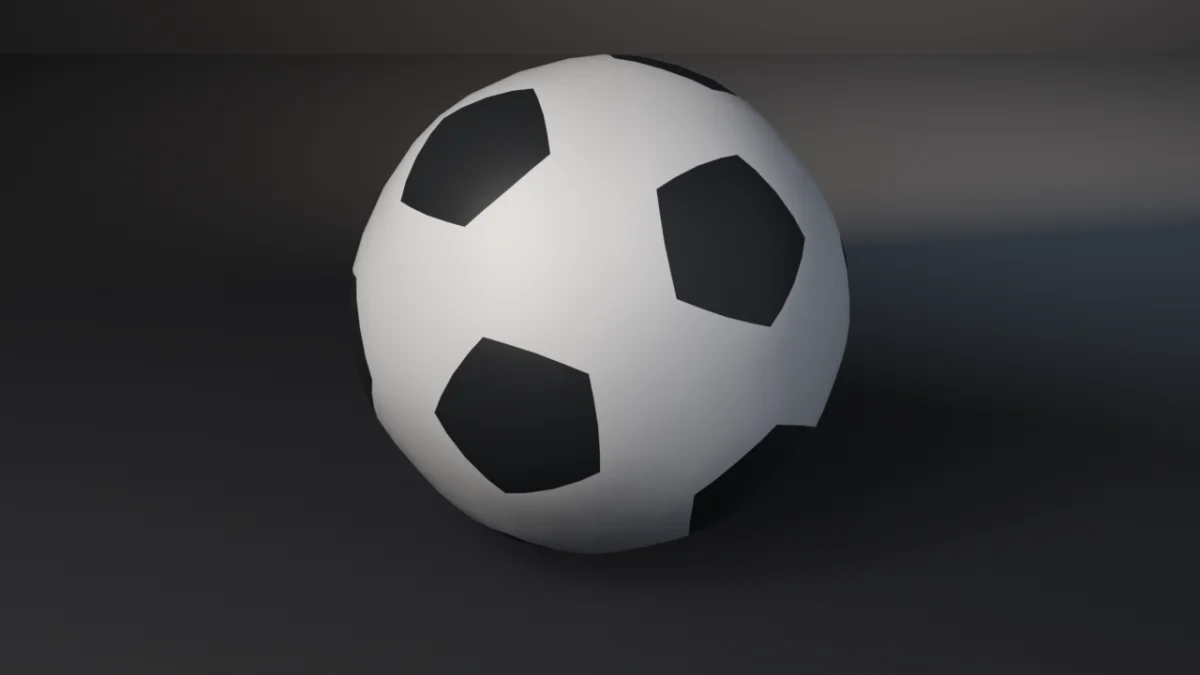
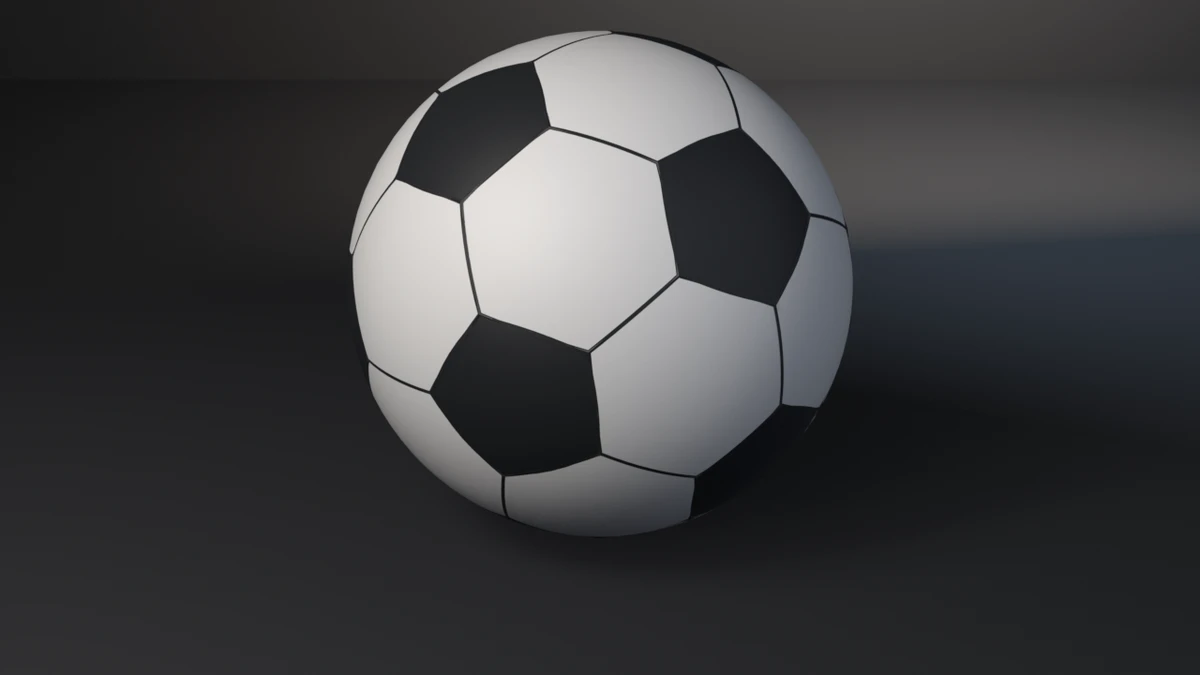
fix(examples): show every soccer-ball panel and gate its framing
Render path only. The white hexagons merged into one shell and the ball
read lumpy; a render-only seam overlay and a Cast modifier fix both. The
render path now calls check_framing, remapped to exit 14 because 10 is
the centroid check. Contract, assertions and exit codes 0-13 unchanged.

diff --git a/docs/gallery/soccer-ball-goldberg/index.html b/docs/gallery/soccer-ball-goldberg/index.html
@@ -16,13 +16,13 @@
   <meta property="og:image" content="https://tmhsdigital.github.io/Blender-Developer-Tools/gallery/assets/soccer-ball-goldberg-hero.webp" />
   <meta property="og:image:width" content="1280" />
   <meta property="og:image:height" content="720" />
-  <meta property="og:image:alt" content="A white soccer ball with black pentagon panels, built as a smoothed Goldberg polyhedron." />
+  <meta property="og:image:alt" content="A round white soccer ball with black pentagon panels and dark stitched seams outlining every white hexagon, built as a smoothed Goldberg polyhedron." />
   <meta property="og:site_name" content="Blender Developer Tools" />
   <meta name="twitter:card" content="summary_large_image" />
   <meta name="twitter:title" content="soccer-ball-goldberg — Examples — Blender Developer Tools" />
   <meta name="twitter:description" content="A soccer ball as a Goldberg polyhedron: a bmesh icosphere truncated at 1/3 per edge, faces ordered by link-topology walks, panels bound by face vertex count." />
   <meta name="twitter:image" content="https://tmhsdigital.github.io/Blender-Developer-Tools/gallery/assets/soccer-ball-goldberg-hero.webp" />
-  <meta name="twitter:image:alt" content="A white soccer ball with black pentagon panels, built as a smoothed Goldberg polyhedron." />
+  <meta name="twitter:image:alt" content="A round white soccer ball with black pentagon panels and dark stitched seams outlining every white hexagon, built as a smoothed Goldberg polyhedron." />
   <style>
     /* fonts are deployed by the landing build (docs/fonts/) */
     @font-face { font-family: 'Barlow Condensed'; font-weight: 600; font-display: swap;
@@ -268,8 +268,8 @@
     <p>A soccer ball as a Goldberg polyhedron: a bmesh icosphere truncated at 1/3 per edge, faces ordered by link-topology walks, panels bound by face vertex count.</p>
   </header>
   <main id="main">
-    <button class="detail-hero" id="heroZoom" type="button" aria-label="View full size: A white soccer ball with black pentagon panels, built as a smoothed Goldberg polyhedron.">
-      <img src="../assets/soccer-ball-goldberg-hero.webp" alt="A white soccer ball with black pentagon panels, built as a smoothed Goldberg polyhedron." width="1280" height="720" />
+    <button class="detail-hero" id="heroZoom" type="button" aria-label="View full size: A round white soccer ball with black pentagon panels and dark stitched seams outlining every white hexagon, built as a smoothed Goldberg polyhedron.">
+      <img src="../assets/soccer-ball-goldberg-hero.webp" alt="A round white soccer ball with black pentagon panels and dark stitched seams outlining every white hexagon, built as a smoothed Goldberg polyhedron." width="1280" height="720" />
     </button>
     <p class="zoom-hint">Rendered headless by the example itself — click to zoom.</p>
     <div class="callout"><span class="tag">witnesses</span> Goldberg invariants are closed forms — counts, degree 3, uniform edges, planar faces, one circumsphere — and panels bind by vertex count, never enumeration order.</div>
@@ -284,7 +284,10 @@
 <ul><li><strong>Counts and characteristic.</strong> V=60, E=90, F=32, Euler <code>V−E+F==2</code> — the sphere topology. Catches a leaked or dropped face/edge/vertex (probe: one face deleted → exit 3, topology <code>(60, 90, 31)</code>).</li><li><strong>Face census.</strong> Exactly 12 five-sided and 20 six-sided faces (exit 5).</li><li><strong>Uniform degree 3.</strong> Every vertex touches exactly three edges, and every edge borders exactly two faces — the Goldberg dual property, watertight (exit 6/7).</li><li><strong>Edge uniformity.</strong> Max deviation from the mean length, measured <strong>6.471e-06</strong> against tol 3.0e-05 (exit 8). Catches a vertex dragged off the lattice (probe: one vertex shifted 0.05 → exit 8, deviation <strong>4.726e-02</strong>, three orders of magnitude over tolerance).</li><li><strong>Face planarity.</strong> Worst vertex-to-plane distance <strong>1.888e-06</strong> against the same tolerance, measured against an independent Newell normal — not Blender&#x27;s polygon normal (exit 9).</li><li><strong>Circumsphere.</strong> Centroid on the origin (<code>0.000e+00</code>, tol 1e-6) and every vertex equidistant from it: max deviation <strong>8.956e-06</strong> (exit 10/11).</li><li><strong>Panel binding by class.</strong> Exactly two materials; every 5-gon carries slot 1 (black), every 6-gon slot 0 (white). The builder assigns by <code>len(poly.vertices)</code>, and the check re-derives the expectation the same way — so an enumeration-order shortcut fails (probe: last-12-faces-black → exit 13, <strong>24 misbound faces</strong>; inverted classes → exit 13, <strong>32 misbound</strong>). Enumeration order coinciding with class order is a construction artifact, not a contract — the check exists for the cases where it doesn&#x27;t.</li></ul>
 <p><strong>Tolerance basis:</strong> mesh coordinates are float32 and <code>create_icosphere</code>&#x27;s own trig lands the invariants at a deterministic ~9e-6 noise floor (measured values are byte-identical on 4.5.11 and 5.1.2). The 3e-5 gates sit ~3x above that floor; any genuine contract break is orders of magnitude larger.</p>
 <p><strong>Version witness:</strong> check output is byte-identical on Blender 4.5.11 LTS and 5.1.2 — same counts, same deviations. One authoring hazard surfaced and is noted in the code: <code>Object.to_mesh_clear()</code> takes <strong>no argument</strong> on current Blender (passing the mesh raises TypeError) — see <a href="https://github.com/TMHSDigital/Blender-Developer-Tools/tree/main/skills/depsgraph-and-evaluated-data/SKILL.md"><code>depsgraph-and-evaluated-data</code></a>.</p>
-<p>The render is the proof: the faceted Goldberg cage is smoothed by an <strong>unapplied</strong> Subsurf modifier (panel materials carry through Catmull-Clark per face class), and the ball is grounded by its depsgraph-evaluated lowest vertex — center-at-circumradius floats the ball, because the smoothed surface sinks toward the face inradii. Invert the panel binding and the still inverts with it: white pentagons on a black ball, wrong on sight.</p>
+<p>The render is the proof: the faceted Goldberg cage is smoothed by an <strong>unapplied</strong> Subsurf modifier (panel materials carry through Catmull-Clark per face class), and the ball is grounded by its depsgraph-evaluated lowest vertex. Invert the panel binding and the still inverts with it: white pentagons on a black ball, wrong on sight.</p>
+<h3>Staging (render path only)</h3>
+<p>None of this touches the checked mesh, its binding, or any check.</p>
+<ul><li><strong>Round, not lumpy.</strong> Catmull-Clark on a 60-vertex cage leaves flats over every hexagon; the clay pass read as a lumpy stone. An unapplied Cast modifier after the Subsurf pulls the surface onto a sphere of the cage&#x27;s own circumradius.</li><li><strong>Every panel visible.</strong> The white hexagons used to merge into one white shell, so the still showed 12 of the 32 panels the check counts. A render-only copy of the mesh, turned into a wire, subdivided and cast onto a sphere 2 mm proud of the ball, draws every panel boundary as a stitched seam. It is parented to the ball and bound to the dark slot on the copy only.</li><li><strong>Framing gate.</strong> The render path calls <a href="https://github.com/TMHSDigital/Blender-Developer-Tools/tree/main/examples/gallery_framing.py"><code>gallery_framing.check_framing</code></a> before writing the still. The helper returns 10, which this example already spends on the centroid check, so the call site maps a violation to <strong>14</strong>. The larger, rounder ball touched the top edge at the old 55 mm lens; the lens is now 50 mm.</li></ul>
 <h2>Run</h2>
 <pre><code># Cheap correctness check (no render) — the CI check:
 blender --background --python soccer_ball_goldberg.py --
@@ -297,7 +300,7 @@ blender --background --python soccer_ball_goldberg.py -- --output ball.png
 blender --background --python soccer_ball_goldberg.py -- --output ball.png --engine cycles</code></pre>
 <h2>Exit codes</h2>
 <p>Per-script sequential checks. <code>9</code> is a valid check code; there is no rule against it.</p>
-<div class="table-wrap"><table><thead><tr><th scope="col">Code</th><th scope="col">Meaning</th></tr></thead><tbody><tr><td>0</td><td>Success</td></tr><tr><td>1</td><td>Uncaught exception (FATAL wrapper)</td></tr><tr><td>2</td><td>argparse / usage</td></tr><tr><td>3</td><td>Topology ≠ 60/90/32</td></tr><tr><td>4</td><td>Euler characteristic ≠ 2</td></tr><tr><td>5</td><td>Face census ≠ 12 pentagons + 20 hexagons</td></tr><tr><td>6</td><td>Vertex degree not uniform 3; also <code>--output</code> produced no file</td></tr><tr><td>7</td><td>Non-manifold edges</td></tr><tr><td>8</td><td>Edge lengths not uniform</td></tr><tr><td>9</td><td>Face planarity off</td></tr><tr><td>10</td><td>Centroid off origin</td></tr><tr><td>11</td><td>Circumradius not uniform</td></tr><tr><td>12</td><td>Panel material count ≠ 2</td></tr><tr><td>13</td><td>Panel binding not by vertex count (<code>--invert-bind</code> lands here)</td></tr></tbody></table></div>
+<div class="table-wrap"><table><thead><tr><th scope="col">Code</th><th scope="col">Meaning</th></tr></thead><tbody><tr><td>0</td><td>Success</td></tr><tr><td>1</td><td>Uncaught exception (FATAL wrapper)</td></tr><tr><td>2</td><td>argparse / usage</td></tr><tr><td>3</td><td>Topology ≠ 60/90/32</td></tr><tr><td>4</td><td>Euler characteristic ≠ 2</td></tr><tr><td>5</td><td>Face census ≠ 12 pentagons + 20 hexagons</td></tr><tr><td>6</td><td>Vertex degree not uniform 3; also <code>--output</code> produced no file</td></tr><tr><td>7</td><td>Non-manifold edges</td></tr><tr><td>8</td><td>Edge lengths not uniform</td></tr><tr><td>9</td><td>Face planarity off</td></tr><tr><td>10</td><td>Centroid off origin</td></tr><tr><td>11</td><td>Circumradius not uniform</td></tr><tr><td>12</td><td>Panel material count ≠ 2</td></tr><tr><td>13</td><td>Panel binding not by vertex count (<code>--invert-bind</code> lands here)</td></tr><tr><td>14</td><td>Framing gate (<code>--output</code> path only; <code>gallery_framing</code> returns 10, remapped)</td></tr></tbody></table></div>
 <p>The <code>blender-smoke</code> workflow runs the check on Blender 5.2 LTS and 4.5 LTS (5.1 on the weekly cron, the <code>needs-5.1</code> PR label, or manual dispatch). Smoke does not pass <code>--output</code> or <code>--invert-bind</code>.</p>
     </section>
     <section class="detail-section src">
@@ -326,6 +329,11 @@ check. Pass --output to also render a still:
 &quot;&quot;&quot;</span>
 <span class="k">import</span> bpy, bmesh, sys, os, math, argparse
 
+<span class="c"># Shared Layer 1 framing measurement (render path only) — see gallery_framing.py</span>
+sys.path.insert(<span class="n">0</span>, os.path.join(os.path.dirname(os.path.abspath(__file__)), os.pardir))
+sys.dont_write_bytecode = <span class="k">True</span>  <span class="c"># keep examples/__pycache__ out of the repo tree</span>
+<span class="k">import</span> gallery_framing
+
 <span class="c"># truncation parameter: cutting each icosahedron edge at 1/3 makes every new</span>
 <span class="c"># edge the same length (a/3), which is what makes the result an Archimedean</span>
 <span class="c"># solid with a circumsphere at all</span>
@@ -340,6 +348,9 @@ TOL_LEN = <span class="n">3.0e-5</span>            <span class="c"># edge-length
 TOL_PLANAR = <span class="n">3.0e-5</span>         <span class="c"># face planarity (max vertex-to-plane distance)</span>
 TOL_RADIUS = <span class="n">3.0e-5</span>         <span class="c"># circumsphere uniformity</span>
 TOL_CENTER = <span class="n">1.0e-6</span>         <span class="c"># centroid at origin</span>
+SEAM_WIDTH = <span class="n">0.018</span>          <span class="c"># render only: stitched seam width on the ball</span>
+SEAM_LIFT = <span class="n">0.002</span>           <span class="c"># render only: seam sits this far proud of the ball</span>
+FRAMING_EXIT = <span class="n">14</span>           <span class="c"># render only: gallery_framing returns 10, taken here</span>
 
 <span class="c"># closed forms for a truncated icosahedron (Goldberg polyhedron GP(1,1))</span>
 EXPECT_V, EXPECT_E, EXPECT_F = <span class="n">60</span>, <span class="n">90</span>, <span class="n">32</span>
@@ -600,16 +611,48 @@ EXPECT_DEGREE = <span class="n">3</span>           <span class="c"># every verte
     me = obj.data
     _panel_materials(obj)
 
-    <span class="c"># the check reads the base mesh; the still adds an UNAPPLIED Subsurf so</span>
-    <span class="c"># the faceted Goldberg cage reads as an inflated ball. Panel materials</span>
-    <span class="c"># carry through Catmull-Clark per face class, so a misbound panel would</span>
+    <span class="c"># the check reads the base mesh; the still adds UNAPPLIED modifiers so</span>
+    <span class="c"># the faceted Goldberg cage reads as a stitched ball. Panel materials</span>
+    <span class="c"># carry through every stage per face class, so a misbound panel would</span>
     <span class="c"># still show in the image.</span>
     <span class="k">for</span> poly <span class="k">in</span> me.polygons:
         poly.use_smooth = <span class="k">True</span>
     sub = obj.modifiers.new(<span class="s">&quot;Inflate&quot;</span>, <span class="s">&#x27;SUBSURF&#x27;</span>)
     sub.subdivision_type = <span class="s">&#x27;CATMULL_CLARK&#x27;</span>
-    sub.levels = <span class="n">2</span>
-    sub.render_levels = <span class="n">2</span>
+    sub.levels = <span class="n">3</span>
+    sub.render_levels = <span class="n">3</span>
+    <span class="c"># Catmull-Clark on a 60-vertex cage leaves flats over the hexagons (the</span>
+    <span class="c"># clay pass reads as a lumpy stone); Cast pulls the surface onto a sphere</span>
+    <span class="c"># of the cage&#x27;s own circumradius</span>
+    cast = obj.modifiers.new(<span class="s">&quot;Round&quot;</span>, <span class="s">&#x27;CAST&#x27;</span>)
+    cast.cast_type = <span class="s">&#x27;SPHERE&#x27;</span>
+    cast.factor = <span class="n">1.0</span>
+    cast.use_radius_as_size = <span class="k">True</span>
+    cast.radius = BALL_RADIUS
+
+    <span class="c"># stitched seams: without them the 20 white hexagons merge into one white</span>
+    <span class="c"># shell and only 12 of the 32 panels the check counts are visible. The</span>
+    <span class="c"># cage&#x27;s own edges, as a wire subdivided and cast onto a sphere just</span>
+    <span class="c"># proud of the ball, draw every panel boundary. A render-only copy of</span>
+    <span class="c"># the mesh, so the checked mesh and its binding are untouched.</span>
+    seam_me = me.copy()
+    <span class="k">for</span> poly <span class="k">in</span> seam_me.polygons:
+        poly.material_index = <span class="n">1</span>
+    seams = bpy.data.objects.new(<span class="s">&quot;Seams&quot;</span>, seam_me)
+    scene.collection.objects.link(seams)
+    seams.parent = obj
+    wire = seams.modifiers.new(<span class="s">&quot;Wire&quot;</span>, <span class="s">&#x27;WIREFRAME&#x27;</span>)
+    wire.thickness = SEAM_WIDTH
+    wire.use_replace = <span class="k">True</span>
+    fine = seams.modifiers.new(<span class="s">&quot;Follow&quot;</span>, <span class="s">&#x27;SUBSURF&#x27;</span>)
+    fine.subdivision_type = <span class="s">&#x27;SIMPLE&#x27;</span>
+    fine.levels = <span class="n">3</span>
+    fine.render_levels = <span class="n">3</span>
+    lay = seams.modifiers.new(<span class="s">&quot;Lay&quot;</span>, <span class="s">&#x27;CAST&#x27;</span>)
+    lay.cast_type = <span class="s">&#x27;SPHERE&#x27;</span>
+    lay.factor = <span class="n">1.0</span>
+    lay.use_radius_as_size = <span class="k">True</span>
+    lay.radius = BALL_RADIUS + SEAM_LIFT
 
     <span class="c"># a pentagon sits on the icosphere +Z pole; tip it toward the camera and</span>
     <span class="c"># spin for an asymmetric, match-worn panel layout</span>
@@ -670,7 +713,7 @@ EXPECT_DEGREE = <span class="n">3</span>           <span class="c"># every verte
     light(<span class="s">&quot;Wedge&quot;</span>, (<span class="n">2.5</span>, <span class="n">5.5</span>, <span class="n">4.0</span>), <span class="n">380.0</span>, <span class="n">6.0</span>, (<span class="n">1.0</span>, <span class="n">0.76</span>, <span class="n">0.5</span>), (-<span class="n">68</span>, <span class="n">0</span>, <span class="n">190</span>))
 
     cam_data = bpy.data.cameras.new(<span class="s">&quot;Cam&quot;</span>)
-    cam_data.lens = <span class="n">55.0</span>
+    cam_data.lens = <span class="n">50.0</span>
     cam = bpy.data.objects.new(<span class="s">&quot;Cam&quot;</span>, cam_data)
     cam.location = (<span class="n">0.0</span>, -<span class="n">7.2</span>, <span class="n">3.8</span>)
     cam.rotation_euler = (math.radians(<span class="n">68</span>), <span class="n">0.0</span>, <span class="n">0.0</span>)
@@ -692,8 +735,14 @@ EXPECT_DEGREE = <span class="n">3</span>           <span class="c"># every verte
     <span class="c"># AgX would wash the white leather toward grey and lift the stage</span>
     <span class="c"># (docs/VISUAL-STYLE.md); Standard is the house transform</span>
     scene.view_settings.view_transform = <span class="s">&#x27;Standard&#x27;</span>
+    <span class="k">if</span> gallery_framing.check_framing(scene, cam, hero=[obj], elements=[obj],
+                                     stage=[floor, wall]):
+        <span class="k">return</span> FRAMING_EXIT
     bpy.ops.render.render(write_still=<span class="k">True</span>)
-    <span class="k">return</span> os.path.exists(path) <span class="k">and</span> os.path.getsize(path) &gt; <span class="n">0</span>
+    <span class="k">if</span> <span class="k">not</span> (os.path.exists(path) <span class="k">and</span> os.path.getsize(path) &gt; <span class="n">0</span>):
+        print(<span class="s">&quot;ERROR: render produced no file&quot;</span>, file=sys.stderr)
+        <span class="k">return</span> <span class="n">6</span>
+    <span class="k">return</span> <span class="n">0</span>
 
 
 <span class="k">def</span> main():
@@ -712,9 +761,9 @@ EXPECT_DEGREE = <span class="n">3</span>           <span class="c"># every verte
         <span class="k">return</span> code
 
     <span class="k">if</span> args.output:
-        <span class="k">if</span> <span class="k">not</span> render_still(obj, os.path.abspath(args.output), args.engine):
-            print(<span class="s">&quot;ERROR: render produced no file&quot;</span>, file=sys.stderr)
-            <span class="k">return</span> <span class="n">6</span>
+        rcode = render_still(obj, os.path.abspath(args.output), args.engine)
+        <span class="k">if</span> rcode:
+            <span class="k">return</span> rcode
         print(<span class="s">f&quot;</span><span class="s">rendered still </span>{args.output}<span class="s">&quot;</span>)
 
     print(<span class="s">&quot;soccer-ball-goldberg OK&quot;</span>)
@@ -731,7 +780,7 @@ EXPECT_DEGREE = <span class="n">3</span>           <span class="c"># every verte
   </main>
   <dialog class="lightbox" id="lightbox" aria-label="Full-size render">
     <button class="lightbox-close" type="button" autofocus>Close</button>
-    <img src="../assets/soccer-ball-goldberg-hero.webp" alt="A white soccer ball with black pentagon panels, built as a smoothed Goldberg polyhedron." />
+    <img src="../assets/soccer-ball-goldberg-hero.webp" alt="A round white soccer ball with black pentagon panels and dark stitched seams outlining every white hexagon, built as a smoothed Goldberg polyhedron." />
   </dialog>
   <footer>
     <div class="statusbar">

diff --git a/examples/soccer-ball-goldberg/soccer_ball_goldberg.py b/examples/soccer-ball-goldberg/soccer_ball_goldberg.py
@@ -18,6 +18,11 @@ check. Pass --output to also render a still:
 """
 import bpy, bmesh, sys, os, math, argparse
 
+# Shared Layer 1 framing measurement (render path only) — see gallery_framing.py
+sys.path.insert(0, os.path.join(os.path.dirname(os.path.abspath(__file__)), os.pardir))
+sys.dont_write_bytecode = True  # keep examples/__pycache__ out of the repo tree
+import gallery_framing
+
 # truncation parameter: cutting each icosahedron edge at 1/3 makes every new
 # edge the same length (a/3), which is what makes the result an Archimedean
 # solid with a circumsphere at all
@@ -32,6 +37,9 @@ TOL_LEN = 3.0e-5            # edge-length uniformity
 TOL_PLANAR = 3.0e-5         # face planarity (max vertex-to-plane distance)
 TOL_RADIUS = 3.0e-5         # circumsphere uniformity
 TOL_CENTER = 1.0e-6         # centroid at origin
+SEAM_WIDTH = 0.018          # render only: stitched seam width on the ball
+SEAM_LIFT = 0.002           # render only: seam sits this far proud of the ball
+FRAMING_EXIT = 14           # render only: gallery_framing returns 10, taken here
 
 # closed forms for a truncated icosahedron (Goldberg polyhedron GP(1,1))
 EXPECT_V, EXPECT_E, EXPECT_F = 60, 90, 32
@@ -292,16 +300,48 @@ def render_still(obj, path, engine):
     me = obj.data
     _panel_materials(obj)
 
-    # the check reads the base mesh; the still adds an UNAPPLIED Subsurf so
-    # the faceted Goldberg cage reads as an inflated ball. Panel materials
-    # carry through Catmull-Clark per face class, so a misbound panel would
+    # the check reads the base mesh; the still adds UNAPPLIED modifiers so
+    # the faceted Goldberg cage reads as a stitched ball. Panel materials
+    # carry through every stage per face class, so a misbound panel would
     # still show in the image.
     for poly in me.polygons:
         poly.use_smooth = True
     sub = obj.modifiers.new("Inflate", 'SUBSURF')
     sub.subdivision_type = 'CATMULL_CLARK'
-    sub.levels = 2
-    sub.render_levels = 2
+    sub.levels = 3
+    sub.render_levels = 3
+    # Catmull-Clark on a 60-vertex cage leaves flats over the hexagons (the
+    # clay pass reads as a lumpy stone); Cast pulls the surface onto a sphere
+    # of the cage's own circumradius
+    cast = obj.modifiers.new("Round", 'CAST')
+    cast.cast_type = 'SPHERE'
+    cast.factor = 1.0
+    cast.use_radius_as_size = True
+    cast.radius = BALL_RADIUS
+
+    # stitched seams: without them the 20 white hexagons merge into one white
+    # shell and only 12 of the 32 panels the check counts are visible. The
+    # cage's own edges, as a wire subdivided and cast onto a sphere just
+    # proud of the ball, draw every panel boundary. A render-only copy of
+    # the mesh, so the checked mesh and its binding are untouched.
+    seam_me = me.copy()
+    for poly in seam_me.polygons:
+        poly.material_index = 1
+    seams = bpy.data.objects.new("Seams", seam_me)
+    scene.collection.objects.link(seams)
+    seams.parent = obj
+    wire = seams.modifiers.new("Wire", 'WIREFRAME')
+    wire.thickness = SEAM_WIDTH
+    wire.use_replace = True
+    fine = seams.modifiers.new("Follow", 'SUBSURF')
+    fine.subdivision_type = 'SIMPLE'
+    fine.levels = 3
+    fine.render_levels = 3
+    lay = seams.modifiers.new("Lay", 'CAST')
+    lay.cast_type = 'SPHERE'
+    lay.factor = 1.0
+    lay.use_radius_as_size = True
+    lay.radius = BALL_RADIUS + SEAM_LIFT
 
     # a pentagon sits on the icosphere +Z pole; tip it toward the camera and
     # spin for an asymmetric, match-worn panel layout
@@ -362,7 +402,7 @@ def render_still(obj, path, engine):
     light("Wedge", (2.5, 5.5, 4.0), 380.0, 6.0, (1.0, 0.76, 0.5), (-68, 0, 190))
 
     cam_data = bpy.data.cameras.new("Cam")
-    cam_data.lens = 55.0
+    cam_data.lens = 50.0
     cam = bpy.data.objects.new("Cam", cam_data)
     cam.location = (0.0, -7.2, 3.8)
     cam.rotation_euler = (math.radians(68), 0.0, 0.0)
@@ -384,8 +424,14 @@ def render_still(obj, path, engine):
     # AgX would wash the white leather toward grey and lift the stage
     # (docs/VISUAL-STYLE.md); Standard is the house transform
     scene.view_settings.view_transform = 'Standard'
+    if gallery_framing.check_framing(scene, cam, hero=[obj], elements=[obj],
+                                     stage=[floor, wall]):
+        return FRAMING_EXIT
     bpy.ops.render.render(write_still=True)
-    return os.path.exists(path) and os.path.getsize(path) > 0
+    if not (os.path.exists(path) and os.path.getsize(path) > 0):
+        print("ERROR: render produced no file", file=sys.stderr)
+        return 6
+    return 0
 
 
 def main():
@@ -404,9 +450,9 @@ def main():
         return code
 
     if args.output:
-        if not render_still(obj, os.path.abspath(args.output), args.engine):
-            print("ERROR: render produced no file", file=sys.stderr)
-            return 6
+        rcode = render_still(obj, os.path.abspath(args.output), args.engine)
+        if rcode:
+            return rcode
         print(f"rendered still {args.output}")
 
     print("soccer-ball-goldberg OK")

diff --git a/examples/soccer-ball-goldberg/README.md b/examples/soccer-ball-goldberg/README.md
@@ -58,9 +58,28 @@ Blender (passing the mesh raises TypeError) — see
 The render is the proof: the faceted Goldberg cage is smoothed by an
 **unapplied** Subsurf modifier (panel materials carry through Catmull-Clark
 per face class), and the ball is grounded by its depsgraph-evaluated lowest
-vertex — center-at-circumradius floats the ball, because the smoothed surface
-sinks toward the face inradii. Invert the panel binding and the still
-inverts with it: white pentagons on a black ball, wrong on sight.
+vertex. Invert the panel binding and the still inverts with it: white
+pentagons on a black ball, wrong on sight.
+
+### Staging (render path only)
+
+None of this touches the checked mesh, its binding, or any check.
+
+- **Round, not lumpy.** Catmull-Clark on a 60-vertex cage leaves flats over
+  every hexagon; the clay pass read as a lumpy stone. An unapplied Cast
+  modifier after the Subsurf pulls the surface onto a sphere of the cage's own
+  circumradius.
+- **Every panel visible.** The white hexagons used to merge into one white
+  shell, so the still showed 12 of the 32 panels the check counts. A
+  render-only copy of the mesh, turned into a wire, subdivided and cast onto a
+  sphere 2 mm proud of the ball, draws every panel boundary as a stitched seam.
+  It is parented to the ball and bound to the dark slot on the copy only.
+- **Framing gate.** The render path calls
+  [`gallery_framing.check_framing`](../gallery_framing.py) before writing the
+  still. The helper returns 10, which this example already spends on the
+  centroid check, so the call site maps a violation to **14**. The larger,
+  rounder ball touched the top edge at the old 55 mm lens; the lens is now
+  50 mm.
 
 ## Run
 
@@ -97,6 +116,7 @@ against it.
 | 11 | Circumradius not uniform |
 | 12 | Panel material count ≠ 2 |
 | 13 | Panel binding not by vertex count (`--invert-bind` lands here) |
+| 14 | Framing gate (`--output` path only; `gallery_framing` returns 10, remapped) |
 
 The `blender-smoke` workflow runs the check on Blender 5.2 LTS and 4.5 LTS
 (5.1 on the weekly cron, the `needs-5.1` PR label, or manual dispatch).
